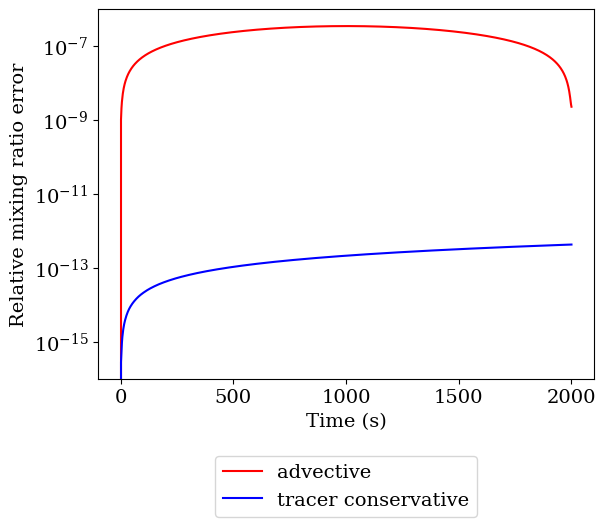
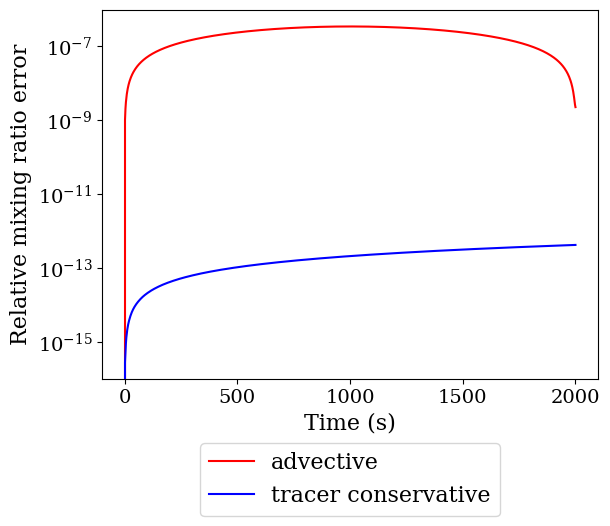
update figures

diff --git a/paper_test_suite/NL_slice/plot_NL_slice_consistency_mx_sse.py b/paper_test_suite/NL_slice/plot_NL_slice_consistency_mx_sse.py
@@ -11,7 +11,7 @@ from tomplot import (set_tomplot_style, plot_convergence,
                      tomplot_legend_fig)
 import numpy as np
 
-order = 1
+order = 0
 
 # Tracer density will be the total and m_X is the L2 of stead state error
 
@@ -76,9 +76,9 @@ plt.rc('font', **font_opts)
 plt.figure()
 plt.semilogy(times, adv_mx_sse, label='advective', c='r')
 plt.semilogy(times, con_mx_sse, label='tracer conservative', c='b')
-plt.xlabel('Time (s)', size=14)
-plt.ylabel('Relative mixing ratio error', size=14)
-plt.legend(loc='lower center', prop={'size': 14}, bbox_to_anchor=(0.5, -0.4))
+plt.xlabel('Time (s)', size=16)
+plt.ylabel('Relative mixing ratio error', size=16)
+plt.legend(loc='lower center', prop={'size': 16}, bbox_to_anchor=(0.5, -0.4))
 
 print(f'Saving figure to {plot_name}')
 plt.savefig(plot_name, bbox_inches='tight')
